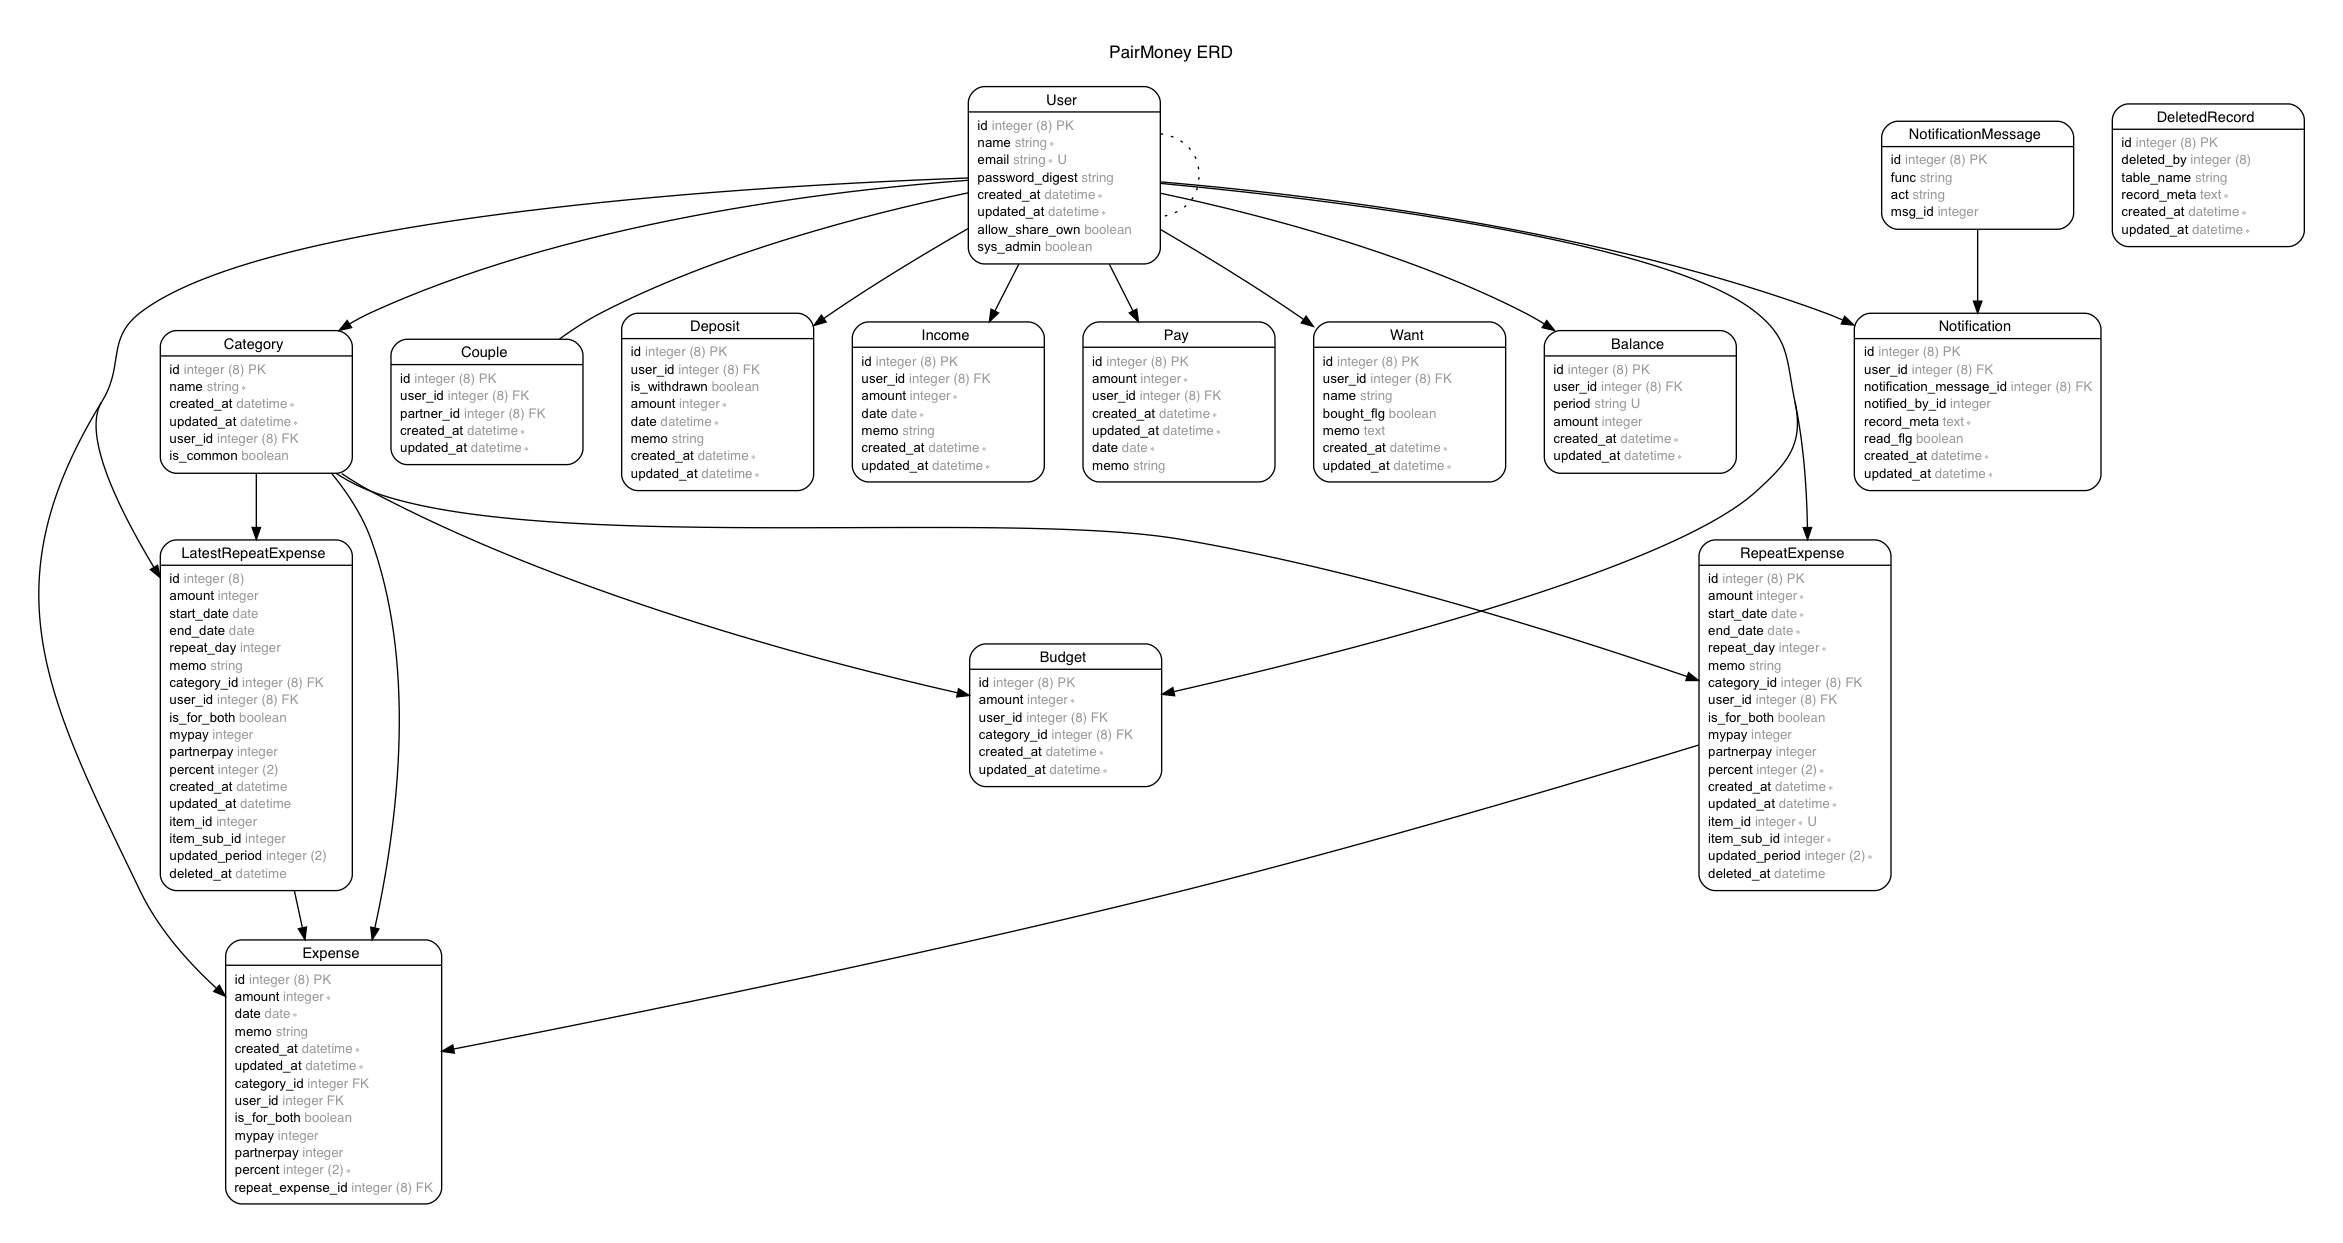
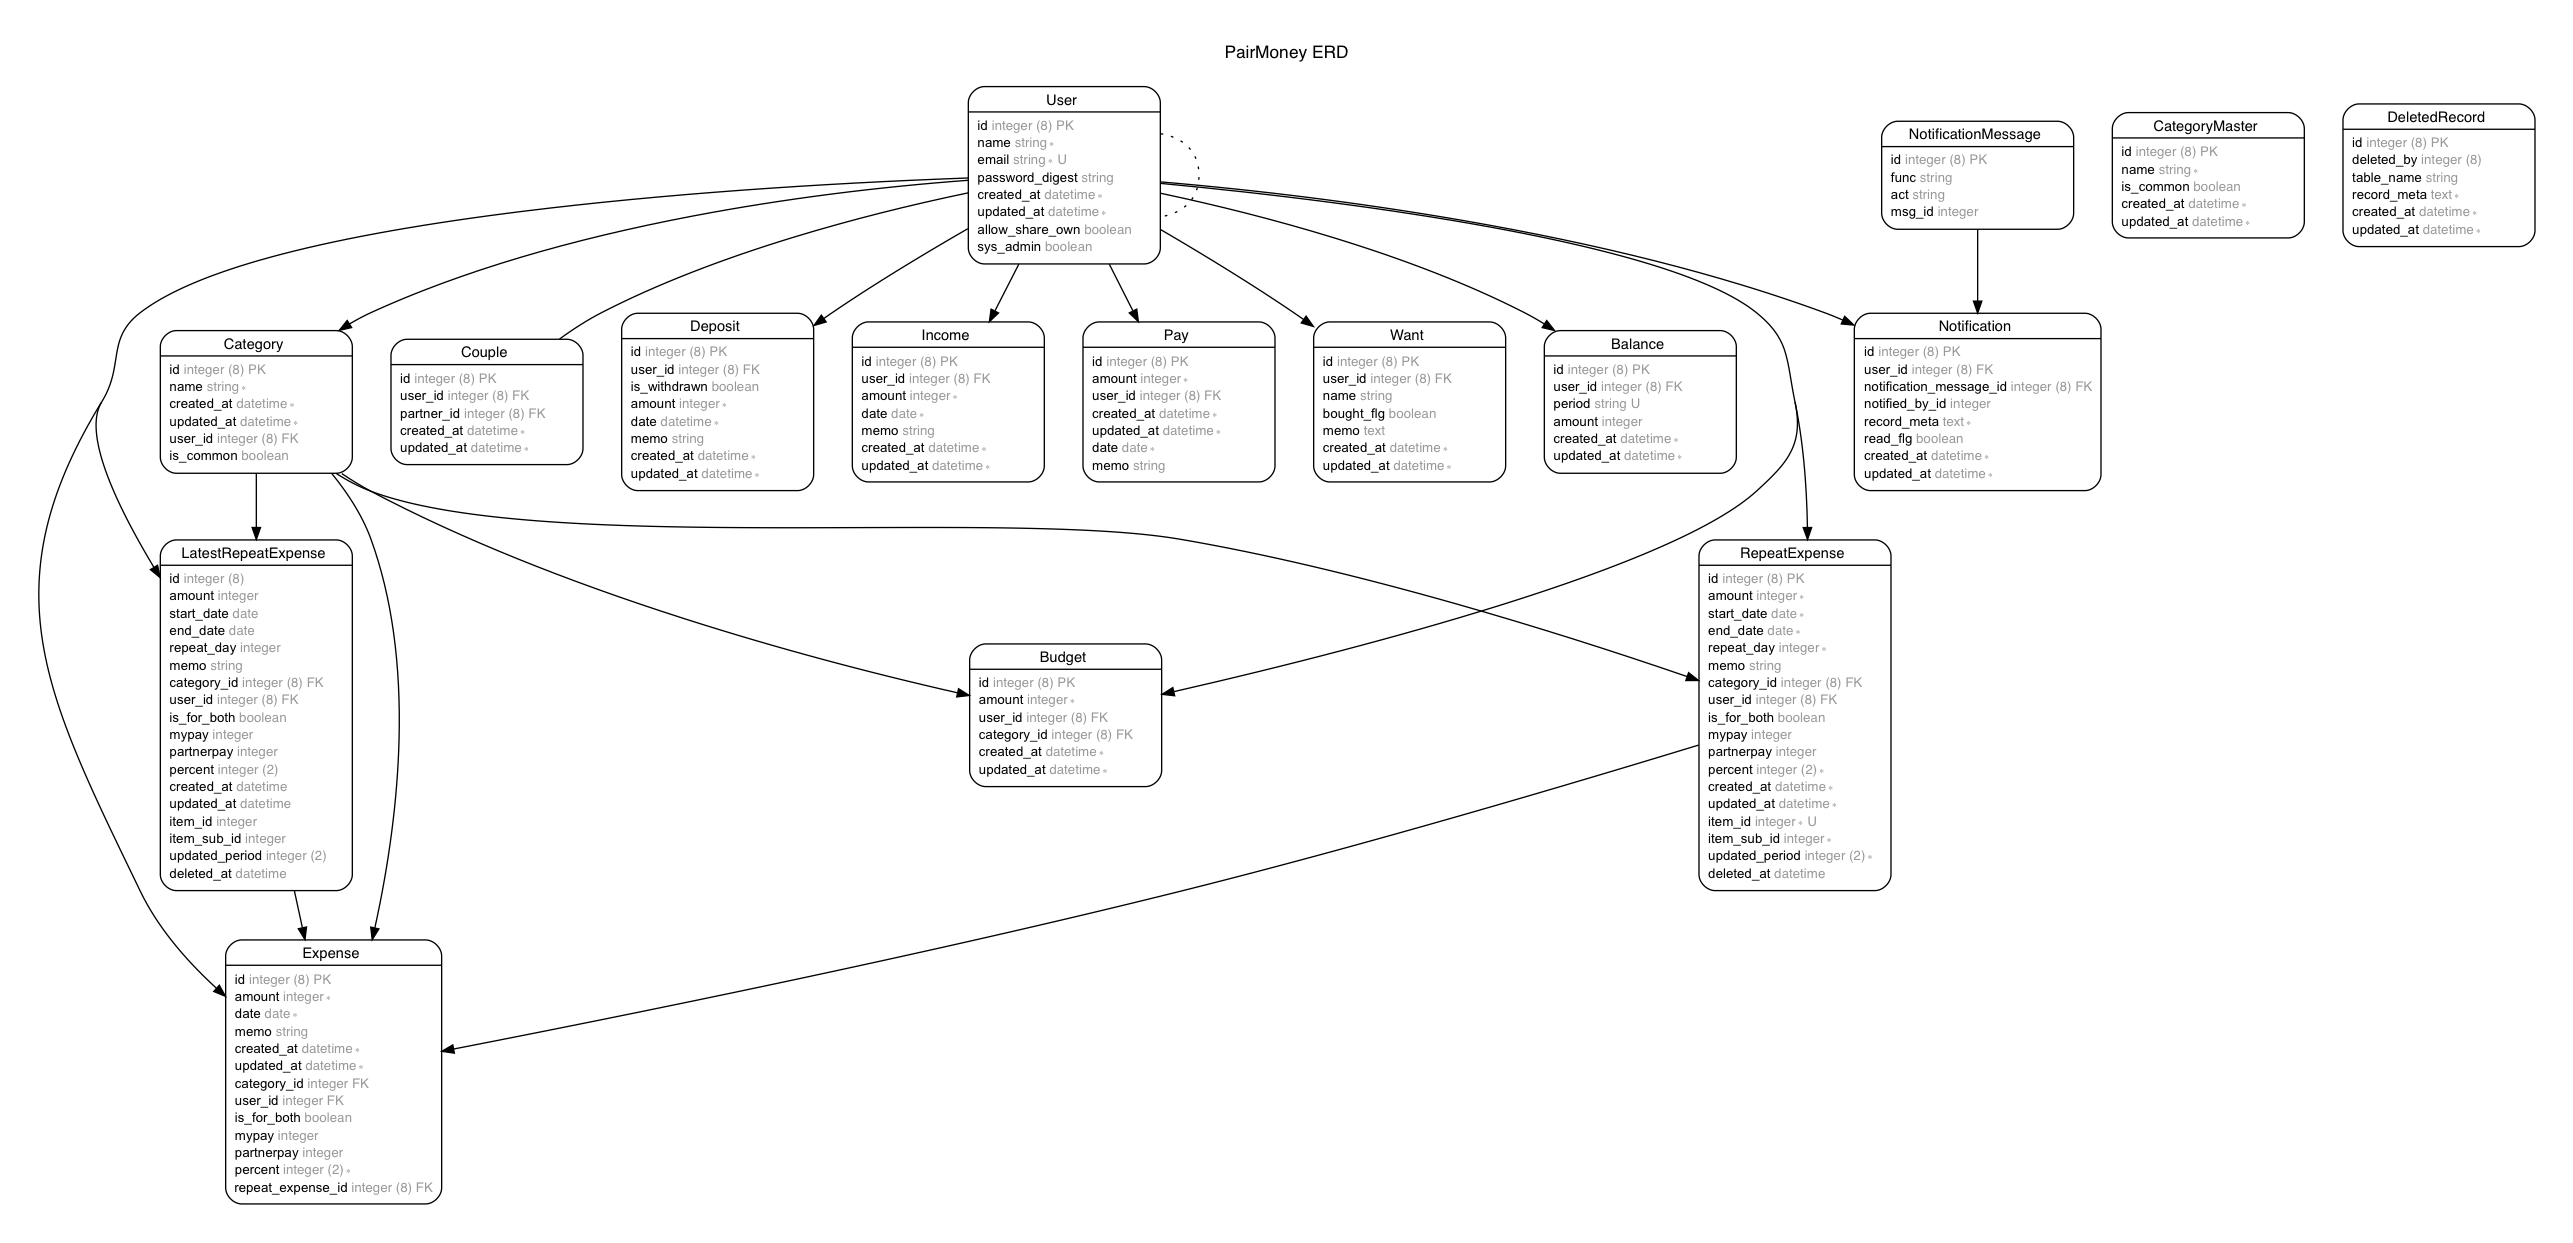
カテゴリーマスターテーブルを追加 #74

diff --git a/db/seeds/03_category_masters_seeds.rb b/db/seeds/03_category_masters_seeds.rb
@@ -1,0 +1,14 @@
+CategoryMaster.create!(id: 1, name: '食費', is_common: true)
+CategoryMaster.create!(id: 2, name: '日用雑貨', is_common: true)
+CategoryMaster.create!(id: 3, name: '通信', is_common: true)
+CategoryMaster.create!(id: 4, name: '水道・光熱', is_common: true)
+CategoryMaster.create!(id: 5, name: '住まい', is_common: true)
+CategoryMaster.create!(id: 6, name: 'エンタメ', is_common: true)
+CategoryMaster.create!(id: 7, name: '大型出費', is_common: true)
+CategoryMaster.create!(id: 8, name: 'その他', is_common: true)
+
+CategoryMaster.create!(id: 9, name: '交通', is_common: false)
+CategoryMaster.create!(id: 10, name: '交際費', is_common: false)
+CategoryMaster.create!(id: 11, name: '教育・教養', is_common: false)
+CategoryMaster.create!(id: 12, name: '医療・保険', is_common: false)
+CategoryMaster.create!(id: 13, name: '美容・衣服', is_common: false)

diff --git a/db/schema.rb b/db/schema.rb
@@ -10,7 +10,7 @@
 #
 # It's strongly recommended that you check this file into your version control system.
 
-ActiveRecord::Schema.define(version: 2019_07_07_114215) do
+ActiveRecord::Schema.define(version: 2019_07_15_072546) do
 
   # These are extensions that must be enabled in order to support this database
   enable_extension "plpgsql"
@@ -42,6 +42,13 @@ ActiveRecord::Schema.define(version: 2019_07_07_114215) do
     t.bigint "user_id"
     t.boolean "is_common", default: false
     t.index ["user_id"], name: "index_categories_on_user_id"
+  end
+
+  create_table "category_masters", force: :cascade do |t|
+    t.string "name", null: false
+    t.boolean "is_common", default: false
+    t.datetime "created_at", null: false
+    t.datetime "updated_at", null: false
   end
 
   create_table "couples", force: :cascade do |t|

diff --git a/spec/factories/pays.rb b/spec/factories/pays.rb
@@ -1,3 +1,30 @@
+# ## Schema Information
+#
+# Table name: `pays`
+#
+# ### Columns
+#
+# Name              | Type               | Attributes
+# ----------------- | ------------------ | ---------------------------
+# **`id`**          | `bigint(8)`        | `not null, primary key`
+# **`amount`**      | `integer`          |
+# **`date`**        | `date`             |
+# **`memo`**        | `string`           |
+# **`created_at`**  | `datetime`         | `not null`
+# **`updated_at`**  | `datetime`         | `not null`
+# **`user_id`**     | `bigint(8)`        |
+#
+# ### Indexes
+#
+# * `index_pays_on_user_id`:
+#     * **`user_id`**
+#
+# ### Foreign Keys
+#
+# * `fk_rails_...`:
+#     * **`user_id => users.id`**
+#
+
 FactoryBot.define do
   factory :pay do
     amount { Faker::Number.number(6) }

diff --git a/spec/models/pay_spec.rb b/spec/models/pay_spec.rb
@@ -1,3 +1,30 @@
+# ## Schema Information
+#
+# Table name: `pays`
+#
+# ### Columns
+#
+# Name              | Type               | Attributes
+# ----------------- | ------------------ | ---------------------------
+# **`id`**          | `bigint(8)`        | `not null, primary key`
+# **`amount`**      | `integer`          |
+# **`date`**        | `date`             |
+# **`memo`**        | `string`           |
+# **`created_at`**  | `datetime`         | `not null`
+# **`updated_at`**  | `datetime`         | `not null`
+# **`user_id`**     | `bigint(8)`        |
+#
+# ### Indexes
+#
+# * `index_pays_on_user_id`:
+#     * **`user_id`**
+#
+# ### Foreign Keys
+#
+# * `fk_rails_...`:
+#     * **`user_id => users.id`**
+#
+
 require 'rails_helper'
 
 RSpec.describe Pay, type: :model do

diff --git a/spec/models/category_master_spec.rb b/spec/models/category_master_spec.rb
@@ -1,0 +1,20 @@
+# ## Schema Information
+#
+# Table name: `category_masters`
+#
+# ### Columns
+#
+# Name              | Type               | Attributes
+# ----------------- | ------------------ | ---------------------------
+# **`id`**          | `bigint(8)`        | `not null, primary key`
+# **`is_common`**   | `boolean`          | `default(FALSE)`
+# **`name`**        | `string`           | `not null`
+# **`created_at`**  | `datetime`         | `not null`
+# **`updated_at`**  | `datetime`         | `not null`
+#
+
+require 'rails_helper'
+
+RSpec.describe CategoryMaster, type: :model do
+  pending "add some examples to (or delete) #{__FILE__}"
+end

diff --git a/app/models/category_master.rb b/app/models/category_master.rb
@@ -1,0 +1,18 @@
+# ## Schema Information
+#
+# Table name: `category_masters`
+#
+# ### Columns
+#
+# Name              | Type               | Attributes
+# ----------------- | ------------------ | ---------------------------
+# **`id`**          | `bigint(8)`        | `not null, primary key`
+# **`is_common`**   | `boolean`          | `default(FALSE)`
+# **`name`**        | `string`           | `not null`
+# **`created_at`**  | `datetime`         | `not null`
+# **`updated_at`**  | `datetime`         | `not null`
+#
+
+class CategoryMaster < ApplicationRecord
+  validates :name, presence: true, length: { maximum: 15 }
+end

diff --git a/spec/factories/category_masters.rb b/spec/factories/category_masters.rb
@@ -1,0 +1,20 @@
+# ## Schema Information
+#
+# Table name: `category_masters`
+#
+# ### Columns
+#
+# Name              | Type               | Attributes
+# ----------------- | ------------------ | ---------------------------
+# **`id`**          | `bigint(8)`        | `not null, primary key`
+# **`is_common`**   | `boolean`          | `default(FALSE)`
+# **`name`**        | `string`           | `not null`
+# **`created_at`**  | `datetime`         | `not null`
+# **`updated_at`**  | `datetime`         | `not null`
+#
+
+FactoryBot.define do
+  factory :category_master do
+    
+  end
+end

diff --git a/db/migrate/20190715072546_create_category_masters.rb b/db/migrate/20190715072546_create_category_masters.rb
@@ -1,0 +1,9 @@
+class CreateCategoryMasters < ActiveRecord::Migration[5.2]
+  def change
+    create_table :category_masters do |t|
+      t.string "name", null: false
+      t.boolean "is_common", default: false
+      t.timestamps
+    end
+  end
+end
